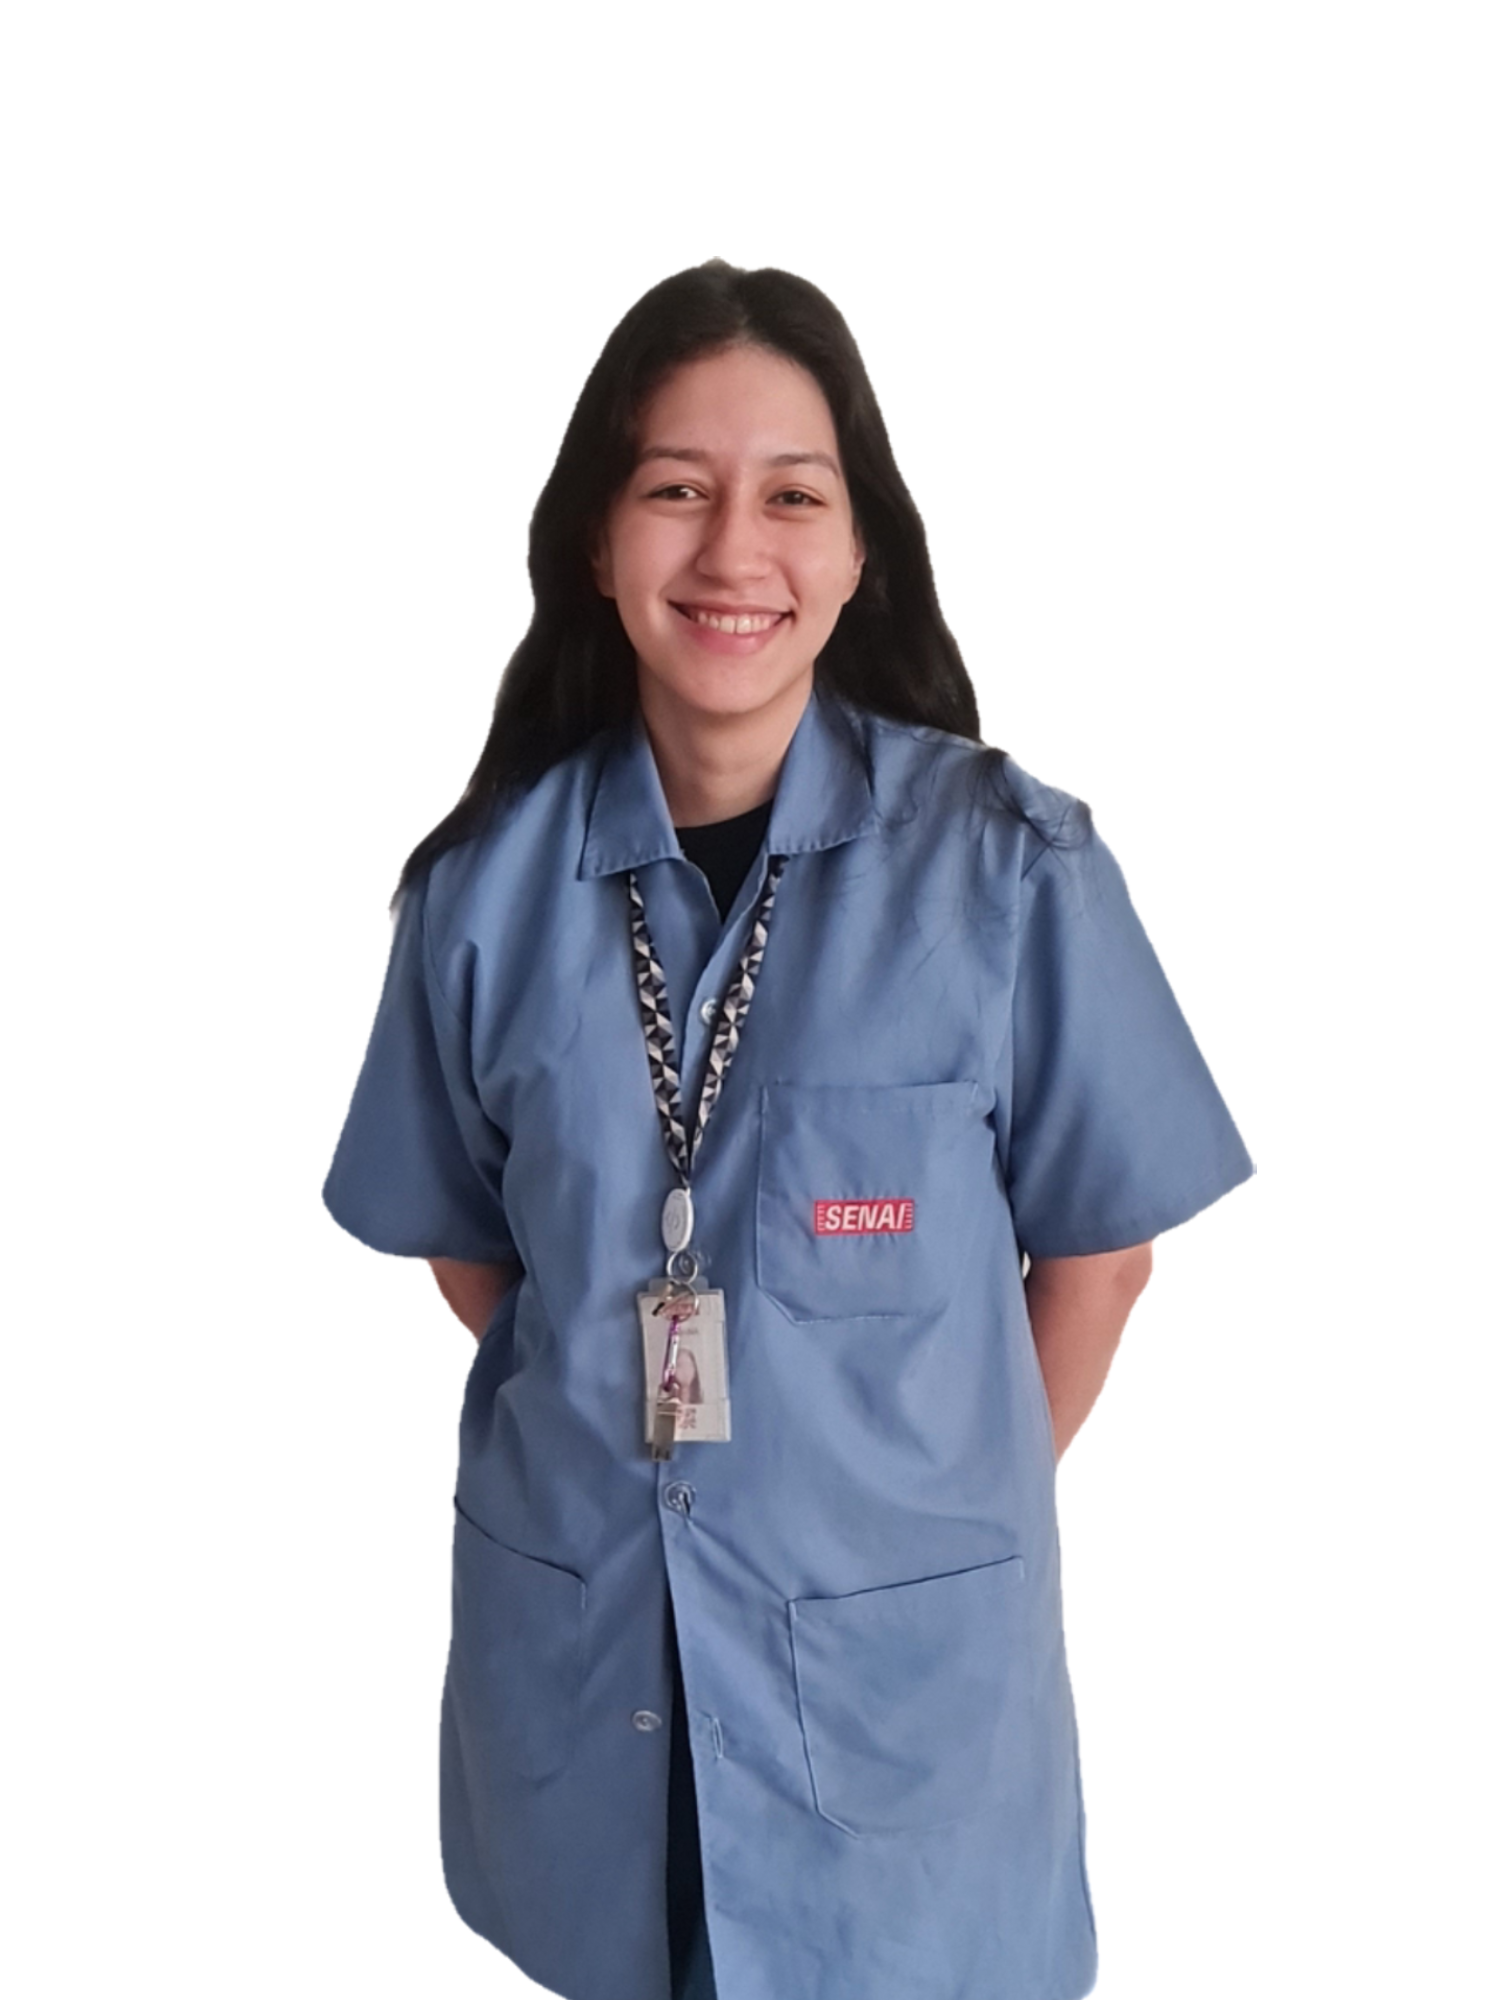
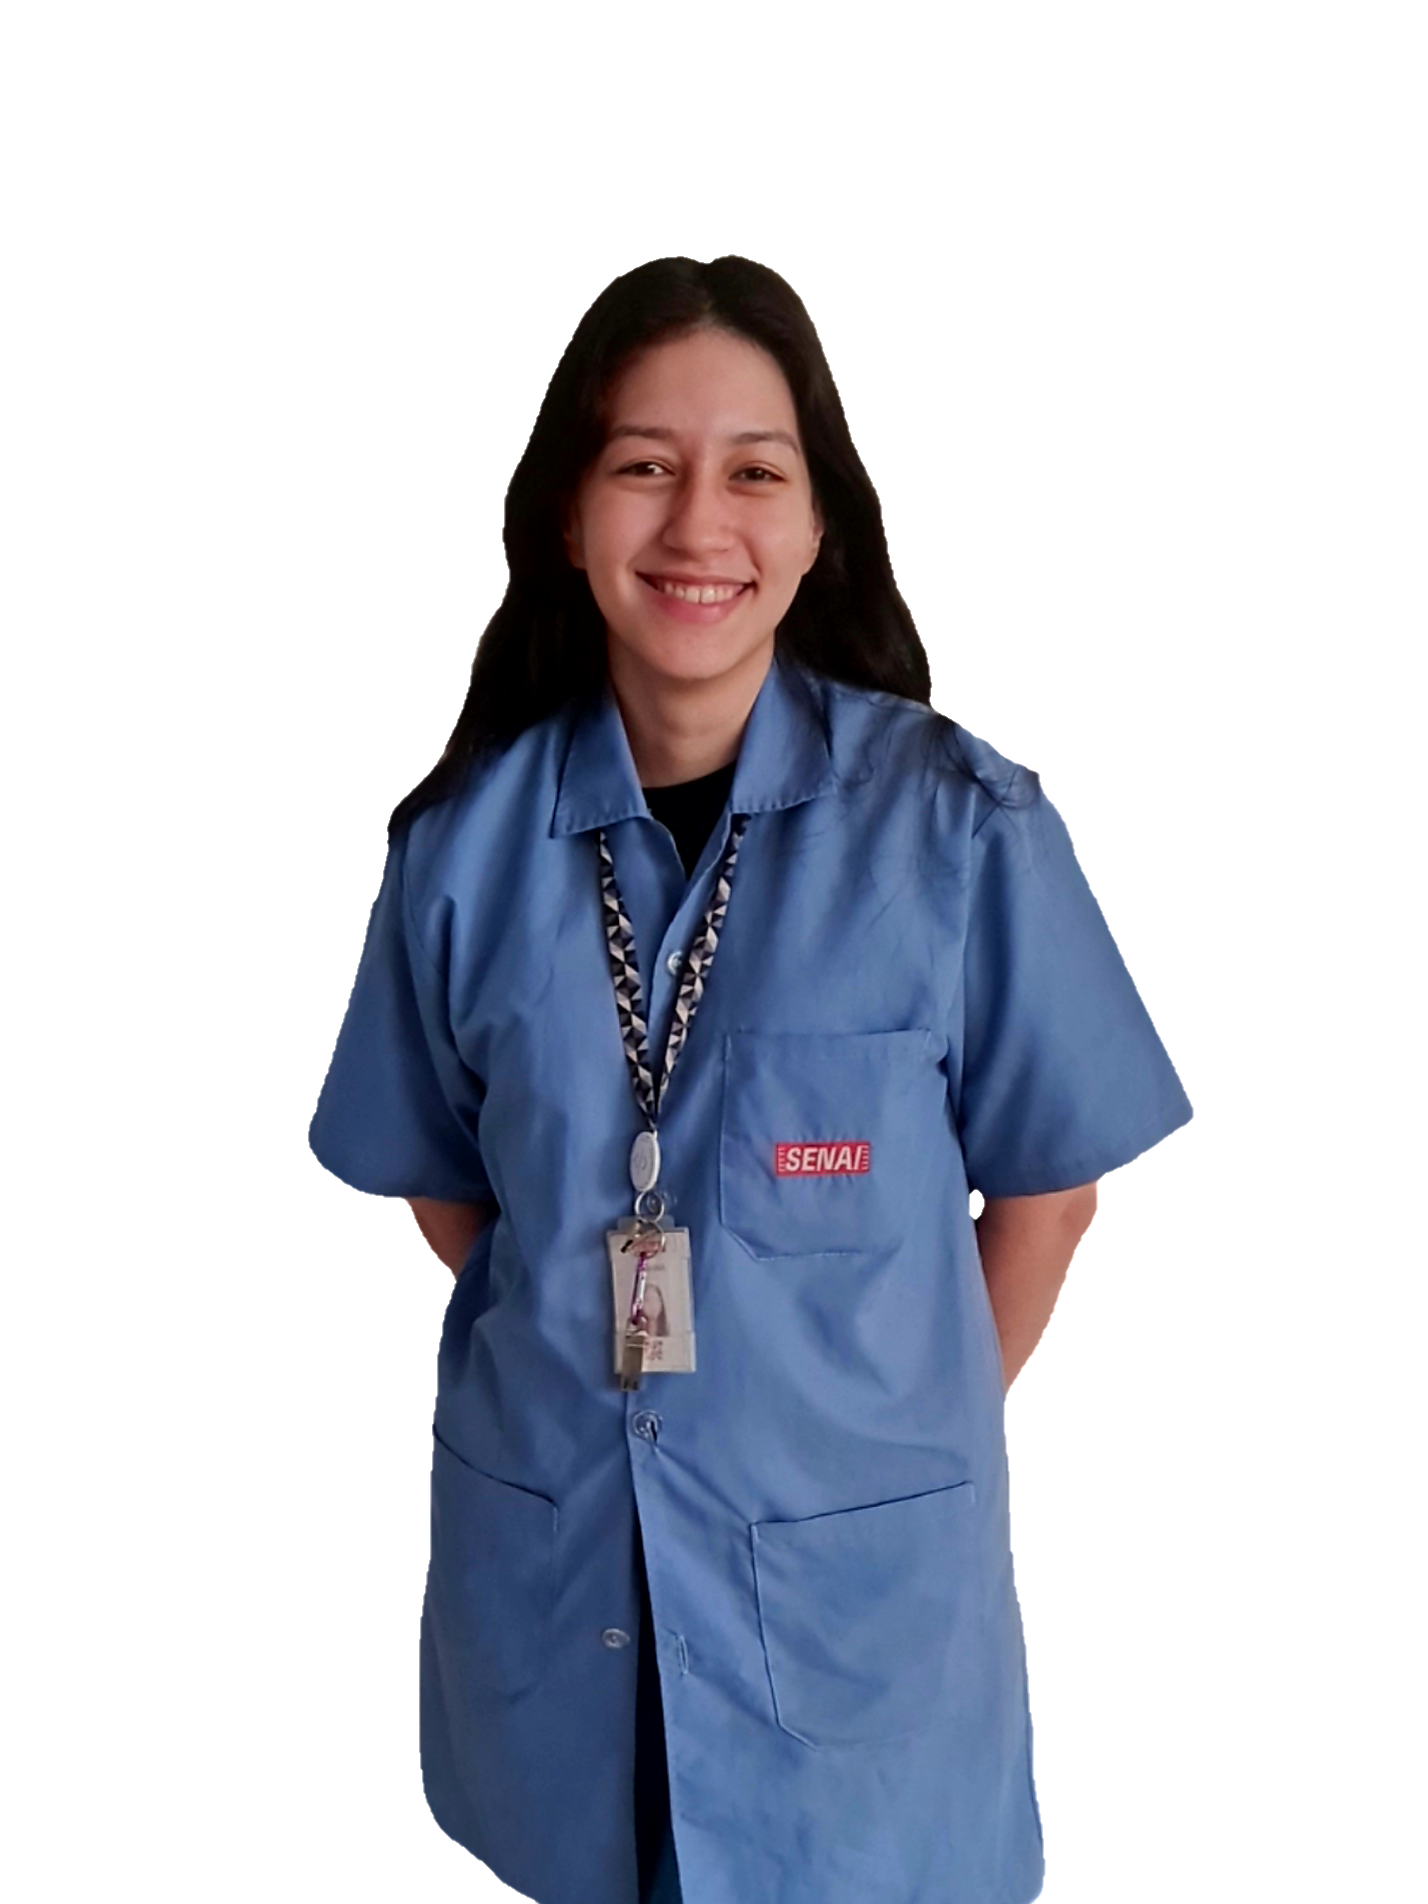
final

diff --git a/js/carrossel.js b/js/carrossel.js
@@ -5,56 +5,35 @@ document.addEventListener("DOMContentLoaded", () => {
     const dayLabel = document.getElementById("dayLabel");
     let isDayTwo = false;
 
-    // Criar o overlay no primeiro card
-    const firstCard = cards[0];
-    const instructionOverlay = document.createElement("div");
-    instructionOverlay.className = "instruction-overlay";
-    instructionOverlay.innerHTML = `  
-        <p>Clique nos cards para visualizar</p><br>
-        <p>Clique duas vezes para ativar o modo de tela cheia</p>
-    `;
-    firstCard.appendChild(instructionOverlay);
-    firstCard.classList.add("highlight");
+    const carrousselIdBase = document.getElementById("carrousselIdBase");
 
-    // Remover destaque e instruções após interação
-    const removeInstructions = () => {
-        if (instructionOverlay) {
-            instructionOverlay.remove();
-        }
-        firstCard.classList.remove("highlight");
-    };
-
-    // Adicionar evento de clique em todos os cards
-    cards.forEach(card => {
-        card.addEventListener("click", removeInstructions);
-    });
-
-    // Função para atualizar os cards visíveis
-    // Função para atualizar os cards visíveis
     const updateVisibleCards = () => {
         const totalCards = isDayTwo ? 8 : 6;
 
-        // Atualiza a largura do carrousselIdBase com base no dia
-        const carrousselIdBase = document.getElementById("carrousselIdBase");
         if (carrousselIdBase) {
-            carrousselIdBase.style.width = isDayTwo ? "110%" : "90%";
+            if (isDayTwo && window.innerWidth > 550) {
+                carrousselIdBase.style.width = "110%";
+            } else {
+                carrousselIdBase.style.width = "90%";
+            }
         }
 
         cards.forEach((card, index) => {
             card.style.display = index < totalCards ? "flex" : "none";
-            // Adicionar ou remover a classe day2
             card.classList.toggle("day2", isDayTwo);
             card.classList.toggle("day1", !isDayTwo);
         });
     };
 
-    // Alternar entre os dias
+    updateVisibleCards();
+
+    window.addEventListener("resize", updateVisibleCards);
+
     toggleButton.addEventListener("change", () => {
         isDayTwo = toggleButton.checked;
         dayLabel.textContent = isDayTwo ? "Dia2" : "Dia1";
         updateVisibleCards();
 
-        // Ajuste do estilo do carrossel para o Dia 2 em modo desktop
         const isDesktopMode = window.innerWidth >= 1280;
         if (isDesktopMode && isDayTwo) {
             carouselContainer.classList.add("dia2-style");
@@ -63,11 +42,6 @@ document.addEventListener("DOMContentLoaded", () => {
         }
     });
 
-
-    // Ajuste inicial dos cards
-    updateVisibleCards();
-
-    // Ajuste do carrossel para diferentes tamanhos de tela
     const isDesktop = () => window.innerWidth >= 1280;
     const isMediumScreen = () => window.innerWidth >= 550 && window.innerWidth < 800;
     const isMobile = () => window.innerWidth < 550;
@@ -77,20 +51,16 @@ document.addEventListener("DOMContentLoaded", () => {
             setupThreeCards();
         } else if (isMobile()) {
             setupSingleCard();
-        } else {
-            stopAutoScroll();
         }
     }
 
     function setupThreeCards() {
-        stopAutoScroll();
         carouselContainer.scrollLeft = 0;
         const controlsContainer = document.querySelector(".carousel-controls");
         if (controlsContainer) controlsContainer.remove();
     }
 
     function setupSingleCard() {
-        startAutoScroll();
         createControls();
     }
 
@@ -117,29 +87,26 @@ document.addEventListener("DOMContentLoaded", () => {
     }
 
     function navigateCarousel(direction) {
-        const cardWidth = cards[0].offsetWidth + 0; // Inclui a margem
-        carouselContainer.scrollBy({ left: cardWidth * direction, behavior: "smooth" });
+        const cardWidth = cards[0].offsetWidth;
+        const totalCards = isDayTwo ? 8 : 6;
+
+        // Identificar o índice atual do primeiro card visível
+        let visibleIndex = Math.round(carouselContainer.scrollLeft / cardWidth);
+
+        if (direction === 1) { // Next button
+            visibleIndex = visibleIndex >= totalCards - 1 ? 0 : visibleIndex + 1;
+        } else { // Prev button
+            visibleIndex = visibleIndex <= 0 ? totalCards - 1 : visibleIndex - 1;
+        }
+
+        // Mover o carrossel para o índice calculado
+        carouselContainer.scrollTo({ left: visibleIndex * cardWidth, behavior: "smooth" });
     }
 
-    let autoScrollInterval;
-
-    function startAutoScroll() {
-        autoScrollInterval = setInterval(() => {
-            navigateCarousel(1);
-        }, 3000);
-    }
-
-    function stopAutoScroll() {
-        clearInterval(autoScrollInterval);
-    }
-
-    // Listener para ajustar o carrossel ao redimensionar a janela
     window.addEventListener("resize", adjustCarousel);
 
-    // Ajuste inicial do carrossel
     adjustCarousel();
 
-    // Função para abrir e fechar o fullscreen
     function openFullscreen(image) {
         const overlay = document.querySelector(".fullscreen-overlay");
         overlay.classList.add("active");
@@ -152,7 +119,6 @@ document.addEventListener("DOMContentLoaded", () => {
         overlay.classList.remove("active");
     }
 
-    // Abrir em fullscreen ao clicar duas vezes na imagem do card
     cards.forEach(card => {
         card.addEventListener("dblclick", () => {
             const image = card.querySelector("img");
@@ -160,6 +126,5 @@ document.addEventListener("DOMContentLoaded", () => {
         });
     });
 
-    // Fechar fullscreen
     document.querySelector(".close-fullscreen").addEventListener("click", closeFullscreen);
 });

diff --git a/js/carrossel2.js b/js/carrossel2.js
@@ -2,7 +2,6 @@ document.addEventListener("DOMContentLoaded", () => {
     const carouselContainer = document.querySelector(".caroussel-container");
     const cards = document.querySelectorAll(".card");
     let currentIndex = 0;
-    let autoScrollInterval;
 
     const isDesktop = () => window.innerWidth >= 1280;
     const isMediumScreen = () => window.innerWidth >= 550 && window.innerWidth < 800;
@@ -16,20 +15,18 @@ document.addEventListener("DOMContentLoaded", () => {
         } else if (isMobile()) {
             setupSingleCard();
         } else {
-            stopAutoScroll();
+            stopAutoScroll(); 
         }
     }
 
     function setupThreeCards() {
-        stopAutoScroll();
-        carouselContainer.scrollLeft = 0;
+        carouselContainer.scrollLeft = 0; 
 
         const controlsContainer = document.querySelector(".carousel-controls");
         if (controlsContainer) controlsContainer.remove();
     }
 
     function setupSingleCard() {
-        startAutoScroll();
         createControls();
     }
 
@@ -42,12 +39,12 @@ document.addEventListener("DOMContentLoaded", () => {
 
         const prevButton = document.createElement("button");
         prevButton.className = "arrow";
-        prevButton.innerHTML = "←";
+        prevButton.innerHTML = "←"; 
         prevButton.addEventListener("click", () => navigateCarousel(-1));
 
         const nextButton = document.createElement("button");
         nextButton.className = "arrow";
-        nextButton.innerHTML = "→";
+        nextButton.innerHTML = "→"; 
         nextButton.addEventListener("click", () => navigateCarousel(1));
 
         controls.appendChild(prevButton);
@@ -56,27 +53,11 @@ document.addEventListener("DOMContentLoaded", () => {
     }
 
     function navigateCarousel(direction) {
-        const cardWidth = cards[0].offsetWidth;
-        currentIndex += direction;
-
-        // Verifica se atingiu o final ou início para ajustar
-        if (currentIndex >= cards.length) {
-            currentIndex = 0; // Reinicia no início
-        } else if (currentIndex < 0) {
-            currentIndex = cards.length - 1; // Volta ao final
-        }
+        const cardWidth = cards[0].offsetWidth; 
+        currentIndex = (currentIndex + direction + cards.length) % cards.length;
 
         const offset = currentIndex * cardWidth;
         carouselContainer.scrollTo({ left: offset, behavior: "smooth" });
-    }
-
-    function startAutoScroll() {
-        stopAutoScroll();
-        autoScrollInterval = setInterval(() => navigateCarousel(1), 20000); // 15 segundos
-    }
-
-    function stopAutoScroll() {
-        clearInterval(autoScrollInterval);
     }
 
     const toggleImagesBtn = document.getElementById("toggleImagesBtn");
@@ -114,7 +95,7 @@ document.addEventListener("DOMContentLoaded", () => {
 
         fullscreenImage.src = imageSrc;
         fullscreenOverlay.classList.add("active");
-        header.classList.add("fullscreen-hidden");
+        header.classList.add("fullscreen-hidden"); 
 
         if (window.innerWidth <= 550) {
             fullscreenImage.style.width = "100%";
@@ -132,7 +113,7 @@ document.addEventListener("DOMContentLoaded", () => {
 
         fullscreenOverlay.classList.remove("active");
         fullscreenImage.src = "";
-        header.classList.remove("fullscreen-hidden");
+        header.classList.remove("fullscreen-hidden"); 
     }
 
     cards.forEach(card => {

diff --git a/css/carrosselDouble.css b/css/carrosselDouble.css
@@ -294,13 +294,13 @@ input:checked + label .description {
 @media (max-width: 550px) {
     .caroussel-container {
         overflow: hidden;
-        width: 80%;
         height: auto;
         display: flex;
         flex-wrap: nowrap;
         scroll-snap-type: x mandatory;
     }
 
+    
     .card {
         flex: 0 0 100%;
         aspect-ratio: 2 / 3;
@@ -328,7 +328,3 @@ input:checked + label .description {
     }
 
 }
-
-
-
-

diff --git a/pages/index.html b/pages/index.html
@@ -192,7 +192,7 @@
                 </div>
 
                 <div class="professor">
-                    <img class="imgProfessor" src="../images/juliana.png">
+                    <img class="imgProfessor" src="../images/juliana2.png">
 
                     <div class="infoBox-professor">
                         <div class="infos-professor">

diff --git a/css/style.css b/css/style.css
@@ -395,7 +395,7 @@ canvas#backgroundCanvas {
 
 .professor {
     display: flex;
-    background-color: #666666;
+    background-color: #3b3b3b;
     width: 30%;
     margin: 1%;
     position: relative;
